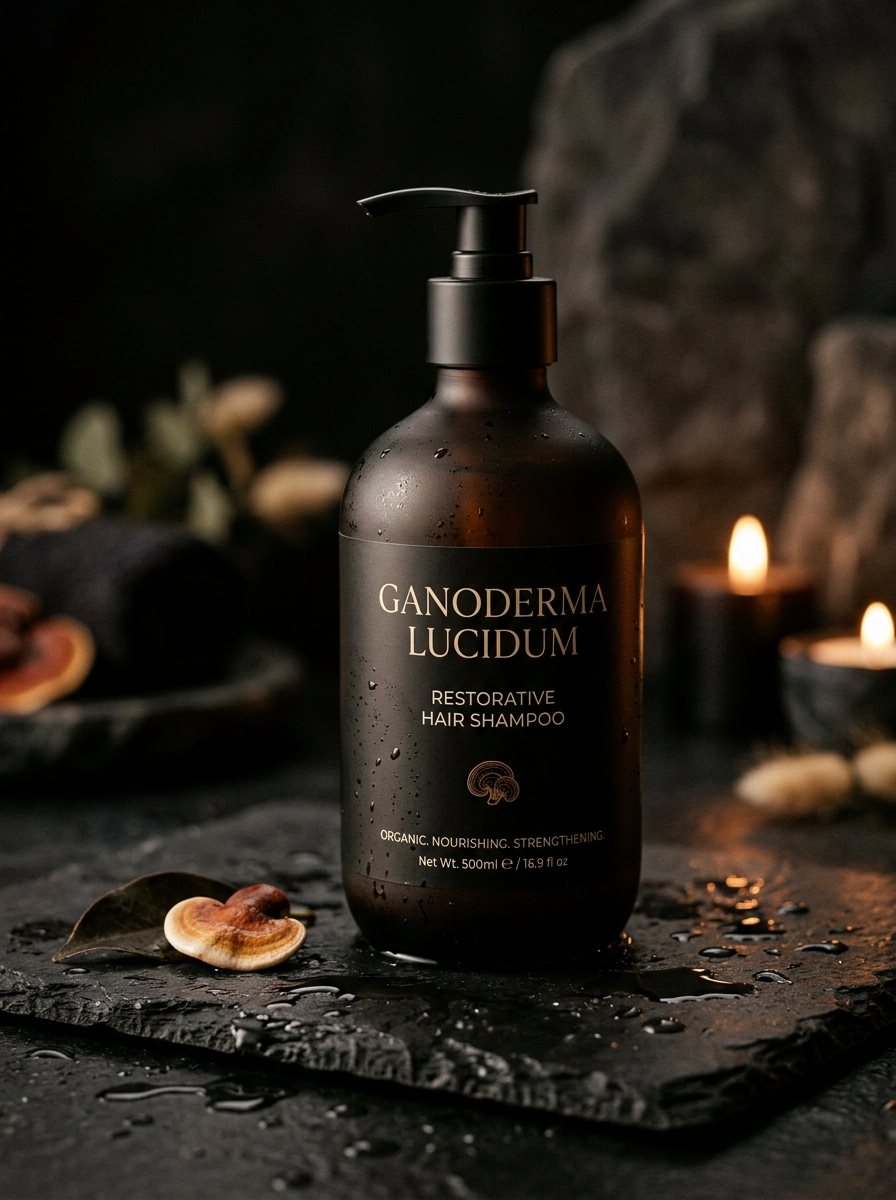
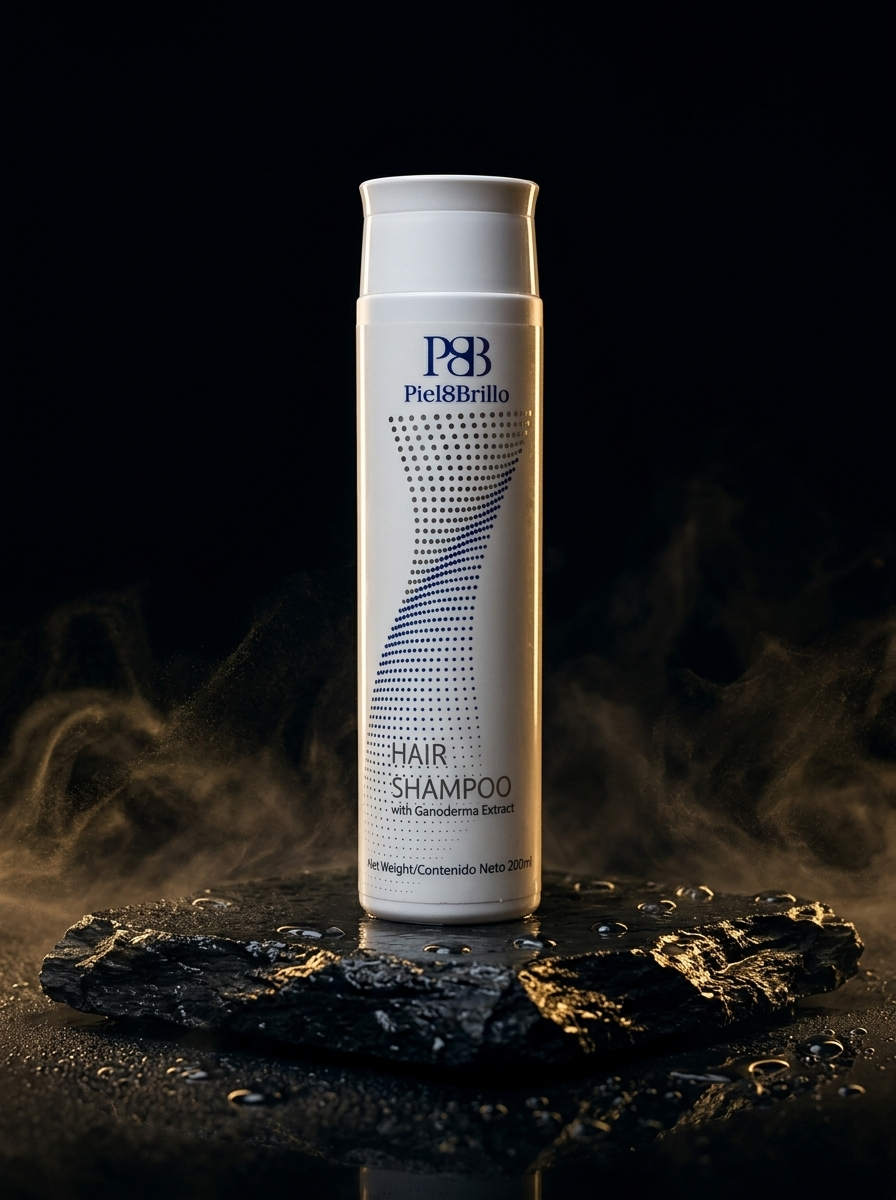
feat: integrar fotos de estudio de lujo para la linea botanica (shampoo, acondicionador, scrub, pasta dental y jabon)

diff --git a/index.html b/index.html
@@ -462,14 +462,14 @@
                     </p>
                 </div>
 
-                <div class="grid grid-cols-1 md:grid-cols-3 gap-8 lg:gap-12 items-start">
+                <div class="grid grid-cols-1 md:grid-cols-2 lg:grid-cols-3 gap-8 lg:gap-12 items-start">
 
-                    <!-- Producto 4: Shampoo Ganoderma -->
+                    <!-- Producto 4: Shampoo Piel&Brillo -->
                     <article data-product-card="shampoo-ganoderma" tabindex="0" role="button"
-                        aria-label="Ver detalles de Shampoo Ganoderma"
+                        aria-label="Ver detalles de Shampoo Piel&Brillo"
                         class="group reveal-up cursor-pointer focus:outline-none">
                         <div class="image-container w-full aspect-[3/4] mb-6 bg-[#1a1412]">
-                            <img src="./src/assets/images/product_shampoo_ganoderma.jpg" alt="Shampoo Ganoderma Lucidum"
+                            <img src="./src/assets/images/product_shampoo_ganoderma.jpg" alt="Shampoo Piel&Brillo Ganoderma"
                                 referrerpolicy="no-referrer"
                                 class="w-full h-full object-cover opacity-85 group-hover:opacity-100 transition-opacity">
                         </div>
@@ -477,8 +477,8 @@
                             <div>
                                 <h4
                                     class="font-serif text-2xl text-brand-cream mb-2 group-hover:text-brand-accent transition-colors">
-                                    Shampoo Ganoderma</h4>
-                                <p class="font-sans text-sm font-light text-brand-light">Cuidado capilar orgánico & fortalecimiento</p>
+                                    Shampoo Piel&Brillo</h4>
+                                <p class="font-sans text-sm font-light text-brand-light">Cuidado capilar orgánico & fortalecimiento con Ganoderma</p>
                             </div>
                             <span
                                 class="font-sans text-xs tracking-widest uppercase text-brand-light group-hover:text-brand-cream transition-colors shrink-0">Ver
@@ -486,12 +486,12 @@
                         </div>
                     </article>
 
-                    <!-- Producto 5: Pasta Dental Ganozhi -->
-                    <article data-product-card="pasta-dental-ganoderma" tabindex="0" role="button"
-                        aria-label="Ver detalles de Pasta Dental Ganozhi"
+                    <!-- Producto 5: Acondicionador Piel&Brillo -->
+                    <article data-product-card="conditioner-ganoderma" tabindex="0" role="button"
+                        aria-label="Ver detalles de Acondicionador Piel&Brillo"
                         class="group reveal-up cursor-pointer md:mt-12 focus:outline-none" style="transition-delay: 150ms;">
                         <div class="image-container w-full aspect-[3/4] mb-6 bg-[#1a1412]">
-                            <img src="./src/assets/images/product_toothpaste_ganoderma.jpg" alt="Pasta Dental Ganozhi"
+                            <img src="./src/assets/images/product_conditioner_ganoderma.jpg" alt="Acondicionador Piel&Brillo Ganoderma"
                                 referrerpolicy="no-referrer"
                                 class="w-full h-full object-cover opacity-85 group-hover:opacity-100 transition-opacity">
                         </div>
@@ -499,8 +499,8 @@
                             <div>
                                 <h4
                                     class="font-serif text-2xl text-brand-cream mb-2 group-hover:text-brand-accent transition-colors">
-                                    Pasta Dental Ganozhi</h4>
-                                <p class="font-sans text-sm font-light text-brand-light">Fórmula botánica con menta & cero flúor</p>
+                                    Acondicionador Piel&Brillo</h4>
+                                <p class="font-sans text-sm font-light text-brand-light">Nutrición profunda, desenredo & brillo sedoso</p>
                             </div>
                             <span
                                 class="font-sans text-xs tracking-widest uppercase text-brand-light group-hover:text-brand-cream transition-colors shrink-0">Ver
@@ -508,12 +508,56 @@
                         </div>
                     </article>
 
-                    <!-- Producto 6: Jabón Botánico Ganozhi -->
-                    <article data-product-card="jabon-ganoderma" tabindex="0" role="button"
-                        aria-label="Ver detalles de Jabón Botánico Ganozhi"
+                    <!-- Producto 6: Shower Scrub Piel&Brillo -->
+                    <article data-product-card="scrub-ganoderma" tabindex="0" role="button"
+                        aria-label="Ver detalles de Shower Scrub Piel&Brillo"
                         class="group reveal-up cursor-pointer focus:outline-none" style="transition-delay: 300ms;">
                         <div class="image-container w-full aspect-[3/4] mb-6 bg-[#1a1412]">
-                            <img src="./src/assets/images/product_soap_ganoderma.jpg" alt="Jabón Botánico Ganozhi"
+                            <img src="./src/assets/images/product_scrub_ganoderma.jpg" alt="Shower Scrub Piel&Brillo Ganoderma"
+                                referrerpolicy="no-referrer"
+                                class="w-full h-full object-cover opacity-85 group-hover:opacity-100 transition-opacity">
+                        </div>
+                        <div class="flex items-baseline justify-between gap-4">
+                            <div>
+                                <h4
+                                    class="font-serif text-2xl text-brand-cream mb-2 group-hover:text-brand-accent transition-colors">
+                                    Shower Scrub Piel&Brillo</h4>
+                                <p class="font-sans text-sm font-light text-brand-light">Exfoliación corporal botánica & renovación dérmica</p>
+                            </div>
+                            <span
+                                class="font-sans text-xs tracking-widest uppercase text-brand-light group-hover:text-brand-cream transition-colors shrink-0">Ver
+                                →</span>
+                        </div>
+                    </article>
+
+                    <!-- Producto 7: Pasta Dental Gano Fresh -->
+                    <article data-product-card="pasta-dental-ganoderma" tabindex="0" role="button"
+                        aria-label="Ver detalles de Pasta Dental Gano Fresh"
+                        class="group reveal-up cursor-pointer focus:outline-none" style="transition-delay: 150ms;">
+                        <div class="image-container w-full aspect-[3/4] mb-6 bg-[#1a1412]">
+                            <img src="./src/assets/images/product_toothpaste_ganoderma.jpg" alt="Pasta Dental Gano Fresh"
+                                referrerpolicy="no-referrer"
+                                class="w-full h-full object-cover opacity-85 group-hover:opacity-100 transition-opacity">
+                        </div>
+                        <div class="flex items-baseline justify-between gap-4">
+                            <div>
+                                <h4
+                                    class="font-serif text-2xl text-brand-cream mb-2 group-hover:text-brand-accent transition-colors">
+                                    Pasta Dental Gano Fresh</h4>
+                                <p class="font-sans text-sm font-light text-brand-light">Protección dental botánica con menta fresca & cero flúor</p>
+                            </div>
+                            <span
+                                class="font-sans text-xs tracking-widest uppercase text-brand-light group-hover:text-brand-cream transition-colors shrink-0">Ver
+                                →</span>
+                        </div>
+                    </article>
+
+                    <!-- Producto 8: Jabón Transparente Ganozhi -->
+                    <article data-product-card="jabon-ganoderma" tabindex="0" role="button"
+                        aria-label="Ver detalles de Jabón Transparente Ganozhi"
+                        class="group reveal-up cursor-pointer md:mt-12 focus:outline-none" style="transition-delay: 300ms;">
+                        <div class="image-container w-full aspect-[3/4] mb-6 bg-[#1a1412]">
+                            <img src="./src/assets/images/product_soap_ganoderma.jpg" alt="Jabón Transparente Ganozhi"
                                 referrerpolicy="no-referrer"
                                 class="w-full h-full object-cover opacity-85 group-hover:opacity-100 transition-opacity">
                         </div>
@@ -522,7 +566,7 @@
                                 <h4
                                     class="font-serif text-2xl text-brand-cream mb-2 group-hover:text-brand-accent transition-colors">
                                     Jabón Ganozhi</h4>
-                                <p class="font-sans text-sm font-light text-brand-light">Barra artesanal con leche de cabra & vitamina E</p>
+                                <p class="font-sans text-sm font-light text-brand-light">Barra ámbar botánica con Ganoderma & Aloe Vera</p>
                             </div>
                             <span
                                 class="font-sans text-xs tracking-widest uppercase text-brand-light group-hover:text-brand-cream transition-colors shrink-0">Ver
@@ -623,9 +667,11 @@
                                     <option value="ClassiRico Truffle">ClassiRico Truffle (Café Negro)</option>
                                     <option value="LatteRico Truffle">LatteRico Truffle (Café Latte)</option>
                                     <option value="ShokoRico Truffle">ShokoRico Truffle (Cacao Gourmet)</option>
-                                    <option value="Shampoo Ganoderma">Shampoo Ganoderma (Cuidado Capilar)</option>
-                                    <option value="Pasta Dental Ganozhi">Pasta Dental Ganozhi (Sin Flúor)</option>
-                                    <option value="Jabón Ganozhi">Jabón Ganozhi (Cuidado Dérmico)</option>
+                                    <option value="Shampoo Piel&Brillo">Shampoo Piel&Brillo (Cuidado Capilar)</option>
+                                    <option value="Acondicionador Piel&Brillo">Acondicionador Piel&Brillo (Nutrición Capilar)</option>
+                                    <option value="Shower Scrub Piel&Brillo">Shower Scrub Piel&Brillo (Exfoliación Corporal)</option>
+                                    <option value="Pasta Dental Gano Fresh">Pasta Dental Gano Fresh (Sin Flúor)</option>
+                                    <option value="Jabón Transparente Ganozhi">Jabón Transparente Ganozhi (Ámbar con Aloe)</option>
                                 </select>
                             </div>
 
@@ -883,62 +929,102 @@
                 },
                 'shampoo-ganoderma': {
                     id: 'shampoo-ganoderma',
-                    title: 'Shampoo Ganoderma',
+                    title: 'Shampoo Piel&Brillo',
                     heroImage: './src/assets/images/product_shampoo_ganoderma.jpg',
                     meta: [
-                        { label: 'Formato', value: 'Frasco Dosificador · 500ml' },
-                        { label: 'Origen', value: 'Kedah, Malasia · Extracto Botánico' },
-                        { label: 'Composición', value: 'Ganoderma Lucidum, Pantenol & Aceites Esenciales' },
-                        { label: 'Beneficio Principal', value: 'Fortalecimiento Capilar, Brillo Natural & Cuero Cabelludo Sano' }
+                        { label: 'Formato', value: 'Frasco Dosificador · 300ml' },
+                        { label: 'Origen', value: 'Gano Excel · Cuidado Capilar Botánico' },
+                        { label: 'Composición', value: 'Extracto Estandarizado de Ganoderma Lucidum, Pantenol & Agentes Suavizantes' },
+                        { label: 'Beneficio Principal', value: 'Fortalecimiento de Raíz, Estimulación del Crecimiento & Brillo Natural' }
                     ],
-                    editorialText: 'Formulación botánica de alta gama desarrollada para revitalizar la fibra capilar y nutrir profundamente el folículo piloso. Enriquecido con el poder antioxidante del extracto estandarizado de Ganoderma Lucidum, limpia suavemente sin resecar, estimula el crecimiento natural y devuelve la vitalidad y brillo sedoso a todo tipo de cabello.',
+                    editorialText: 'Formulación botánica de alta gama desarrollada para revitalizar la fibra capilar y nutrir profundamente el folículo piloso. Enriquecido con el poder antioxidante del extracto estandarizado de Ganoderma Lucidum, limpia suavemente sin resecar, equilibra el cuero cabelludo y devuelve la vitalidad y brillo sedoso desde la primera aplicación.',
                     gallery: [
                         './src/assets/images/product_shampoo_ganoderma.jpg',
+                        './src/assets/images/product_conditioner_ganoderma.jpg',
                         'https://images.unsplash.com/photo-1535585209827-a15fcdbc4c2d?ixlib=rb-4.0.3&auto=format&fit=crop&w=1400&q=80',
+                        'https://images.unsplash.com/photo-1522337360788-8b13dee7a37e?ixlib=rb-4.0.3&auto=format&fit=crop&w=1600&q=80'
+                    ],
+                    wspText: 'Hola, me interesa conocer más sobre el Shampoo Piel&Brillo con Ganoderma en la página de Gano Itouch Chile y consultar disponibilidad.',
+                    nextId: 'conditioner-ganoderma'
+                },
+                'conditioner-ganoderma': {
+                    id: 'conditioner-ganoderma',
+                    title: 'Acondicionador Piel&Brillo',
+                    heroImage: './src/assets/images/product_conditioner_ganoderma.jpg',
+                    meta: [
+                        { label: 'Formato', value: 'Frasco Dosificador · 300ml' },
+                        { label: 'Origen', value: 'Gano Excel · Cuidado Capilar Botánico' },
+                        { label: 'Composición', value: 'Extracto de Ganoderma Lucidum, Aceite Nutritivo & Vitamina E' },
+                        { label: 'Beneficio Principal', value: 'Desenredo Instantáneo, Suavidad Extrema & Protección Térmica' }
+                    ],
+                    editorialText: 'Acondicionador capilar premium diseñado para complementar el cuidado del cabello con los nutrientes bioactivos del Ganoderma Lucidum. Sella las cutículas, previene el quiebre y las puntas abiertas, otorgando un tacto sedoso y brillo radiante sin dejar residuos grasos.',
+                    gallery: [
+                        './src/assets/images/product_conditioner_ganoderma.jpg',
+                        './src/assets/images/product_shampoo_ganoderma.jpg',
+                        'https://images.unsplash.com/photo-1522337360788-8b13dee7a37e?ixlib=rb-4.0.3&auto=format&fit=crop&w=1600&q=80',
+                        'https://images.unsplash.com/photo-1535585209827-a15fcdbc4c2d?ixlib=rb-4.0.3&auto=format&fit=crop&w=1400&q=80'
+                    ],
+                    wspText: 'Hola, me interesa conocer más sobre el Acondicionador Piel&Brillo con Ganoderma en la página de Gano Itouch Chile y consultar disponibilidad.',
+                    nextId: 'scrub-ganoderma'
+                },
+                'scrub-ganoderma': {
+                    id: 'scrub-ganoderma',
+                    title: 'Shower Scrub Piel&Brillo',
+                    heroImage: './src/assets/images/product_scrub_ganoderma.jpg',
+                    meta: [
+                        { label: 'Formato', value: 'Frasco Dosificador · 300ml' },
+                        { label: 'Origen', value: 'Gano Excel · Cuidado Corporal de Spa' },
+                        { label: 'Composición', value: 'Ganoderma Lucidum, Micropartículas Exfoliantes & Complejo Botánico' },
+                        { label: 'Beneficio Principal', value: 'Renovación Dérmica, Exfoliación Suave & Hidratación Satinada' }
+                    ],
+                    editorialText: 'Gel exfoliante corporal para ducha que combina una limpieza profunda con microgránulos botánicos que eliminan células muertas y revitalizan la piel. Infundido con extracto puro de Ganoderma Lucidum, estimula la microcirculación y deja la piel aterciopelada y profundamente hidratada.',
+                    gallery: [
+                        './src/assets/images/product_scrub_ganoderma.jpg',
+                        './src/assets/images/product_shampoo_ganoderma.jpg',
                         'https://images.unsplash.com/photo-1556228720-195a672e8a03?ixlib=rb-4.0.3&auto=format&fit=crop&w=1400&q=80',
                         'https://images.unsplash.com/photo-1522337360788-8b13dee7a37e?ixlib=rb-4.0.3&auto=format&fit=crop&w=1600&q=80'
                     ],
-                    wspText: 'Hola, me interesa conocer más sobre el Shampoo con Ganoderma Lucidum en la página de Gano Itouch Chile y consultar disponibilidad.',
+                    wspText: 'Hola, me interesa conocer más sobre el Shower Scrub Piel&Brillo con Ganoderma en la página de Gano Itouch Chile y consultar disponibilidad.',
                     nextId: 'pasta-dental-ganoderma'
                 },
                 'pasta-dental-ganoderma': {
                     id: 'pasta-dental-ganoderma',
-                    title: 'Pasta Dental Ganozhi',
+                    title: 'Pasta Dental Gano Fresh',
                     heroImage: './src/assets/images/product_toothpaste_ganoderma.jpg',
                     meta: [
                         { label: 'Formato', value: 'Tubo · 150g' },
                         { label: 'Origen', value: 'Fórmula Natural · Kedah, Malasia' },
-                        { label: 'Composición', value: 'Ganoderma Lucidum Puro, Menta Silvestre & Alginato' },
-                        { label: 'Beneficio Principal', value: '100% Libre de Flúor Químico, Encías Fuertes & Aliento Fresco' }
+                        { label: 'Composición', value: 'Ganoderma Lucidum Puro, Menta Silvestre Orgánica & Alginato' },
+                        { label: 'Beneficio Principal', value: '100% Libre de Flúor Químico, Encías Fuertes & Aliento Fresco Prolongado' }
                     ],
-                    editorialText: 'Crema dental botánica sin flúor, sacarina ni colorantes artificiales. Integra las propiedades antibacterianas y regenerativas del Ganoderma Lucidum con el frescor revitalizante de la menta orgánica. Protege el esmalte dental, fortalece las encías sensibles y previene la placa bacteriana de forma segura.',
+                    editorialText: 'Crema dental botánica sin flúor, sacarina ni colorantes artificiales. Integra las propiedades antibacterianas y regenerativas del Ganoderma Lucidum con el frescor revitalizante de la menta orgánica. Protege el esmalte dental, fortalece las encías sensibles y previene la placa bacteriana de forma segura y eficaz.',
                     gallery: [
                         './src/assets/images/product_toothpaste_ganoderma.jpg',
                         'https://images.unsplash.com/photo-1556228720-195a672e8a03?ixlib=rb-4.0.3&auto=format&fit=crop&w=1400&q=80',
                         'https://images.unsplash.com/photo-1535585209827-a15fcdbc4c2d?ixlib=rb-4.0.3&auto=format&fit=crop&w=1400&q=80',
                         'https://images.unsplash.com/photo-1522337360788-8b13dee7a37e?ixlib=rb-4.0.3&auto=format&fit=crop&w=1600&q=80'
                     ],
-                    wspText: 'Hola, me interesa conocer más sobre la Pasta Dental Ganozhi (Sin Flúor) en la página de Gano Itouch Chile y consultar disponibilidad.',
+                    wspText: 'Hola, me interesa conocer más sobre la Pasta Dental Gano Fresh (Sin Flúor) en la página de Gano Itouch Chile y consultar disponibilidad.',
                     nextId: 'jabon-ganoderma'
                 },
                 'jabon-ganoderma': {
                     id: 'jabon-ganoderma',
-                    title: 'Jabón Ganozhi',
+                    title: 'Jabón Transparente Ganozhi',
                     heroImage: './src/assets/images/product_soap_ganoderma.jpg',
                     meta: [
                         { label: 'Formato', value: 'Barra Artesanal · 100g' },
                         { label: 'Origen', value: 'Elaboración Botánica · Gano Excel' },
-                        { label: 'Composición', value: 'Ganoderma Lucidum, Aceite de Leche de Cabra & Vitamina E' },
-                        { label: 'Beneficio Principal', value: 'Nutrición Celular, Antienvejecimiento & Suavidad Dérmica' }
+                        { label: 'Composición', value: 'Ganoderma Lucidum Estandarizado, Aloe Vera Puro & Humectantes Botánicos' },
+                        { label: 'Beneficio Principal', value: 'Regeneración Celular, Hidratación Profunda & Cuidado Anti-edad Dérmico' }
                     ],
-                    editorialText: 'Jabón botánico formulado con extracto puro de Ganoderma Lucidum y enriquecido con aceite de leche de cabra y vitamina E. Limpia la piel con extrema delicadeza, restaurando el manto hidrolipídico y aportando antioxidantes naturales que combaten el daño oxidativo y dejan la piel radiante y tersa.',
+                    editorialText: 'Jabón ámbar translúcido formulado con extracto puro de Ganoderma Lucidum y enriquecido con el poder regenerador del Aloe Vera y vitamina E. Limpia la piel con suavidad sin alterar la barrera protectora, aportando antioxidantes naturales que combaten el daño celular y dejan la piel radiante y equilibrada.',
                     gallery: [
                         './src/assets/images/product_soap_ganoderma.jpg',
                         'https://images.unsplash.com/photo-1607006314644-8c8868a8f623?ixlib=rb-4.0.3&auto=format&fit=crop&w=1400&q=80',
                         'https://images.unsplash.com/photo-1556228720-195a672e8a03?ixlib=rb-4.0.3&auto=format&fit=crop&w=1400&q=80',
                         'https://images.unsplash.com/photo-1522337360788-8b13dee7a37e?ixlib=rb-4.0.3&auto=format&fit=crop&w=1600&q=80'
                     ],
-                    wspText: 'Hola, me interesa conocer más sobre el Jabón Botánico Ganozhi en la página de Gano Itouch Chile y consultar disponibilidad.',
+                    wspText: 'Hola, me interesa conocer más sobre el Jabón Transparente Ganozhi (Ámbar con Aloe) en la página de Gano Itouch Chile y consultar disponibilidad.',
                     nextId: 'classirico-truffle'
                 }
             };

diff --git a/server.js b/server.js
@@ -72,35 +72,57 @@ const PRODUCTS_CATALOG = [
   },
   {
     id: 'shampoo-ganoderma',
-    title: 'Shampoo Ganoderma',
-    subtitle: 'Cuidado capilar orgánico con Ganoderma Lucidum',
-    format: 'Frasco Dosificador · 500ml',
-    origin: 'Kedah, Malasia · Plantaciones Orgánicas',
-    keyIngredients: 'Ganoderma Lucidum, Pantenol & Aceites Botánicos',
-    mainBenefit: 'Fortalecimiento Capilar, Brillo Natural & Cuero Cabelludo Sano',
-    image: '/src/assets/images/product_shampoo_ganoderma.jpg',
+    title: 'Shampoo Piel&Brillo',
+    subtitle: 'Cuidado capilar orgánico & fortalecimiento con Ganoderma',
+    format: 'Frasco Dosificador · 300ml',
+    origin: 'Gano Excel · Cuidado Capilar Botánico',
+    keyIngredients: 'Extracto Estandarizado de Ganoderma Lucidum, Pantenol & Agentes Suavizantes',
+    mainBenefit: 'Fortalecimiento de Raíz, Estimulación del Crecimiento & Brillo Natural',
+    image: './src/assets/images/product_shampoo_ganoderma.jpg',
+    inStock: true
+  },
+  {
+    id: 'conditioner-ganoderma',
+    title: 'Acondicionador Piel&Brillo',
+    subtitle: 'Nutrición profunda, desenredo & brillo sedoso con Ganoderma',
+    format: 'Frasco Dosificador · 300ml',
+    origin: 'Gano Excel · Cuidado Capilar Botánico',
+    keyIngredients: 'Extracto de Ganoderma Lucidum, Aceite Nutritivo & Vitamina E',
+    mainBenefit: 'Desenredo Instantáneo, Suavidad Extrema & Protección Térmica',
+    image: './src/assets/images/product_conditioner_ganoderma.jpg',
+    inStock: true
+  },
+  {
+    id: 'scrub-ganoderma',
+    title: 'Shower Scrub Piel&Brillo',
+    subtitle: 'Exfoliación corporal botánica & renovación dérmica',
+    format: 'Frasco Dosificador · 300ml',
+    origin: 'Gano Excel · Cuidado Corporal de Spa',
+    keyIngredients: 'Ganoderma Lucidum, Micropartículas Exfoliantes & Complejo Botánico',
+    mainBenefit: 'Renovación Dérmica, Exfoliación Suave & Hidratación Satinada',
+    image: './src/assets/images/product_scrub_ganoderma.jpg',
     inStock: true
   },
   {
     id: 'pasta-dental-ganoderma',
-    title: 'Pasta Dental Ganozhi',
-    subtitle: 'Fórmula botánica sin flúor con menta silvestre',
+    title: 'Pasta Dental Gano Fresh',
+    subtitle: 'Protección dental botánica con menta fresca & cero flúor',
     format: 'Tubo · 150g',
-    origin: 'Kedah, Malasia · Fórmula Botánica',
-    keyIngredients: 'Ganoderma Lucidum Puro, Menta Silvestre & Alginato',
+    origin: 'Fórmula Natural · Kedah, Malasia',
+    keyIngredients: 'Ganoderma Lucidum Puro, Menta Silvestre Orgánica & Alginato',
     mainBenefit: '100% Libre de Flúor Químico, Encías Fuertes & Aliento Fresco',
-    image: '/src/assets/images/product_toothpaste_ganoderma.jpg',
+    image: './src/assets/images/product_toothpaste_ganoderma.jpg',
     inStock: true
   },
   {
     id: 'jabon-ganoderma',
-    title: 'Jabón Ganozhi',
-    subtitle: 'Barra artesanal botánica con leche de cabra y vitamina E',
+    title: 'Jabón Transparente Ganozhi',
+    subtitle: 'Barra ámbar botánica con Ganoderma Lucidum & Aloe Vera',
     format: 'Barra Artesanal · 100g',
     origin: 'Elaboración Botánica · Gano Excel',
-    keyIngredients: 'Ganoderma Lucidum, Aceite de Leche de Cabra & Vitamina E',
-    mainBenefit: 'Nutrición Celular, Antienvejecimiento & Suavidad Dérmica',
-    image: '/src/assets/images/product_soap_ganoderma.jpg',
+    keyIngredients: 'Ganoderma Lucidum Estandarizado, Aloe Vera Puro & Humectantes Botánicos',
+    mainBenefit: 'Regeneración Celular, Hidratación Profunda & Cuidado Anti-edad Dérmico',
+    image: './src/assets/images/product_soap_ganoderma.jpg',
     inStock: true
   }
 ];

diff --git a/tests/test-qa-integration.js b/tests/test-qa-integration.js
@@ -31,8 +31,8 @@ console.log('✓ QA 1: Endpoint /api/health responde 200 OK');
 const prod = await req('/api/products');
 assert.strictEqual(prod.status, 200, 'Catálogo falló');
 const prodBody = JSON.parse(prod.data);
-assert.strictEqual(prodBody.count, 6, 'Catálogo debe tener los 6 productos oficiales (3 café + 3 botánicos)');
-console.log('✓ QA 2: Endpoint /api/products retorna los 6 productos oficiales (Café & Cuidado Personal)');
+assert.strictEqual(prodBody.count, 8, 'Catálogo debe tener los 8 productos oficiales (3 café + 5 botánicos)');
+console.log('✓ QA 2: Endpoint /api/products retorna los 8 productos oficiales (Café & Cuidado Personal)');
 
 // 3. Contact Form Submission API
 const contactSubmission = await req('/api/contact', {
@@ -72,6 +72,10 @@ const shokoDetail = await req('/src/assets/images/shokorico_angle_detail.jpg');
 assert.strictEqual(shokoDetail.status, 200, 'Imagen detallada de ShokoRico debe responder 200');
 const shampooImg = await req('/src/assets/images/product_shampoo_ganoderma.jpg');
 assert.strictEqual(shampooImg.status, 200, 'Imagen de Shampoo debe responder 200');
+const conditionerImg = await req('/src/assets/images/product_conditioner_ganoderma.jpg');
+assert.strictEqual(conditionerImg.status, 200, 'Imagen de Acondicionador debe responder 200');
+const scrubImg = await req('/src/assets/images/product_scrub_ganoderma.jpg');
+assert.strictEqual(scrubImg.status, 200, 'Imagen de Scrub debe responder 200');
 const toothpasteImg = await req('/src/assets/images/product_toothpaste_ganoderma.jpg');
 assert.strictEqual(toothpasteImg.status, 200, 'Imagen de Pasta Dental debe responder 200');
 const soapImg = await req('/src/assets/images/product_soap_ganoderma.jpg');

diff --git a/tests/test-backend.js b/tests/test-backend.js
@@ -34,8 +34,8 @@ console.log('✓ Test 1: Healthcheck OK');
 const products = await request('/api/products');
 assert.strictEqual(products.status, 200, 'Products debe retornar 200');
 const prodJson = JSON.parse(products.body);
-assert.strictEqual(prodJson.count, 6, 'El catálogo debe contener 6 productos (3 café + 3 cuidado personal)');
-console.log('✓ Test 2: Catálogo de productos OK (6 productos: café y cuidado personal)');
+assert.strictEqual(prodJson.count, 8, 'El catálogo debe contener 8 productos (3 café + 5 cuidado personal)');
+console.log('✓ Test 2: Catálogo de productos OK (8 productos: café y cuidado personal)');
 
 // Test 3: Validación de contacto (Payload inválido)
 const badContact = await request('/api/contact', {
